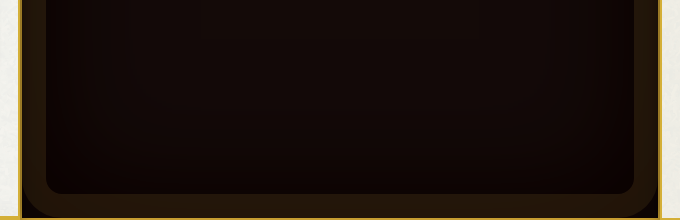
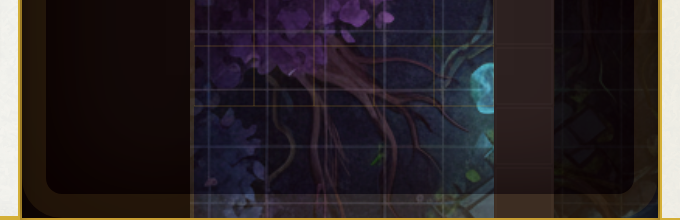
Fix combat grid centering and zoom control overlap
- Update CombatGrid.tsx to position absolute with negative half-width/height margins. This bypasses the Flexbox safe overflow alignment bug in modern browsers when container exceeds viewport width, ensuring exact center positioning of the grid and tokens.
- Update GameScreen.tsx to conditionally render the Leaflet map's MapNavigation controls only when not in combat or grid view, preventing zoom control overlap on the right side of the screen.

diff --git a/src/components/combat/CombatGrid.tsx b/src/components/combat/CombatGrid.tsx
@@ -614,9 +614,13 @@ const activeTokenCoordinates = draggedMonsterId
           dragMomentum={false}
           animate={{ x: panOffset.x, y: panOffset.y }}
           transition={{ type: 'spring', damping: 25, stiffness: 120 }}
-          className="relative shadow-2xl cursor-grab active:cursor-grabbing border-4 border-dragon-gold/20 bg-[#1a1814]"
+          className="absolute shadow-2xl cursor-grab active:cursor-grabbing border-4 border-dragon-gold/20 bg-[#1a1814]"
           style={{ 
             scale: zoom,
+            left: '50%',
+            top: '50%',
+            marginLeft: -(gridWidth * cellSize) / 2,
+            marginTop: -(gridHeight * cellSize) / 2,
             width: gridWidth * cellSize, 
             height: gridHeight * cellSize,
             backgroundImage: combatState.combatMapBackground ? `url(${combatState.combatMapBackground.startsWith('http') || combatState.combatMapBackground.startsWith('/') ? combatState.combatMapBackground : `/assets/atlas/combat/combat_map_terrain/${combatState.combatMapBackground}`})` : undefined,

diff --git a/src/components/hud/GameScreen.tsx b/src/components/hud/GameScreen.tsx
@@ -28,7 +28,8 @@ export const GameScreen: React.FC = () => {
     isInsideSubMap,
     gameMode,
     isMapLegendOpen,
-    setIsMapLegendOpen
+    setIsMapLegendOpen,
+    currentView
   } = useUIStore();
 
   const {
@@ -196,9 +197,11 @@ export const GameScreen: React.FC = () => {
       </div>
 
       {/* 7. Floating Map Controls */}
-      <div className="absolute top-28 right-6 z-[100] pointer-events-none">
-        <MapNavigation />
-      </div>
+      {gameMode !== 'combat' && currentView !== 'grid' && (
+        <div className="absolute top-28 right-6 z-[100] pointer-events-none">
+          <MapNavigation />
+        </div>
+      )}
 
       {/* 6. TOP: Stationary Notifications */}
       <div className={cn(
